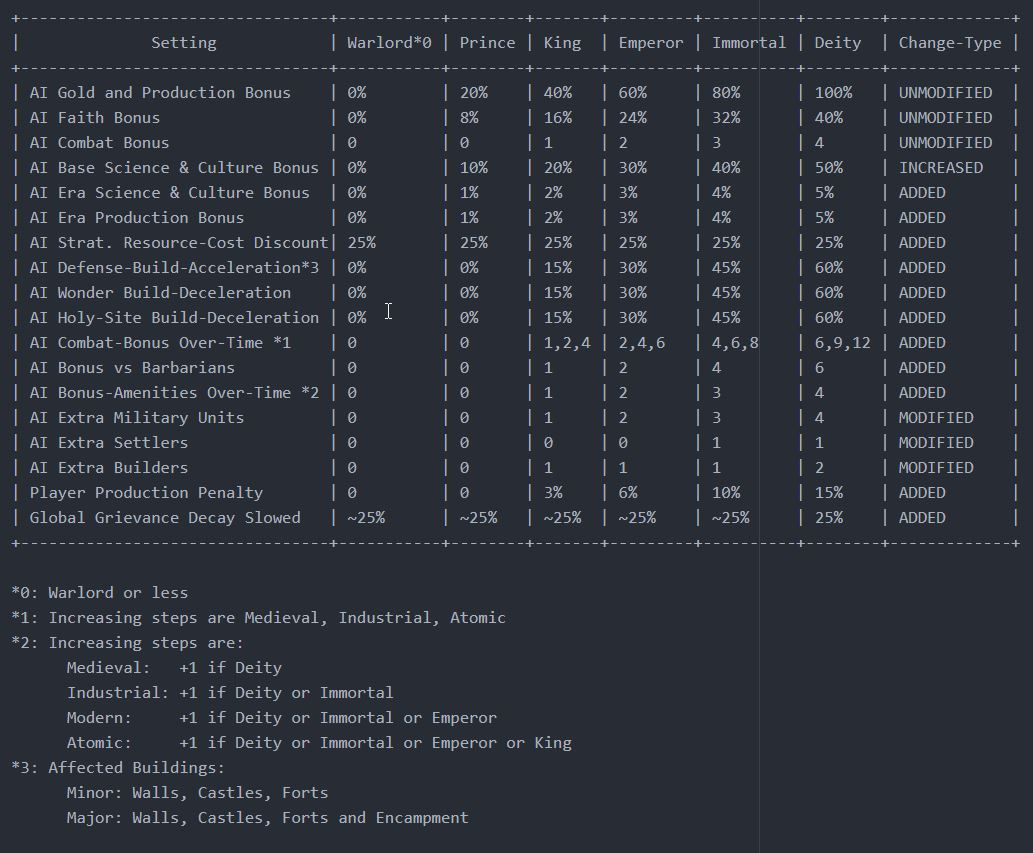
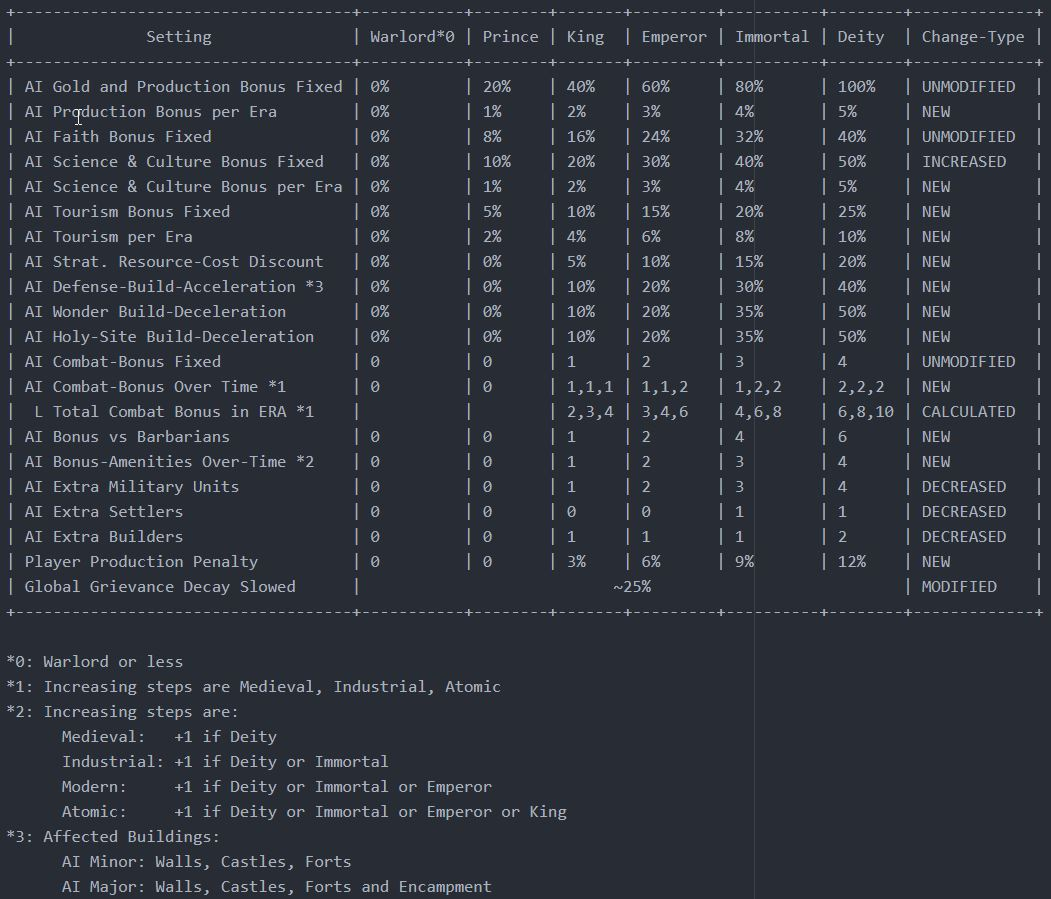
MOD Added tourism-scale, fixed a typo, updated settings-table

diff --git a/README.md b/README.md
@@ -1,27 +1,34 @@
 [h1]Even It Out[/h1]
 
 This mod revamps the difficulty-settings of the game.
+The intention is to have a more scaled experience with no need to adjust your playstyle in a whole because you step up the difficulty.
+
+A good example of this is the fact it is very difficult to compete with the AI on building wonders or holy-sites on deity, this mod allows you to
+be able to do just that, but things getting tough the more the game progresses.
 
 [b]Features[/b]
-Changes difficulties as shown:
-[img]https://raw.githubusercontent.com/fampat/fampat-civ6-mod-evenitout/patch__20_may/Assets/changes-table.jpg[/img]
+Changes, adding and removing difficulty-setting as shown:
+[img]https://i.imgur.com/zBT5ELn.jpg[/img]
 
-Here is a overview with the vanilla-settings: https://civ6.gamepedia.com/Game_difficulty
+Here is a overview of the vanilla-settings: https://civ6.gamepedia.com/Game_difficulty
 
 [b]What's next?[/b]
-- Testing and tweaking
+- Testing and tweaking, alot!
 
 [b]Known issues[/b]
-- None reported or known right now
+- None known right now
 
 [b]Game-versions & Localizations[/b]
 Works with Basegame, R&F and GS.
-Currently localized for EN and DE
+Currently localized for EN and DE (unit modifiers)
 
 [b]Every feedback and bug-report is welcome![/b]
 
 [b]Want to support?[/b]
 Rate it!
+
+[b]Credits[/b]
+Credits go to the creator of the "Smoother Difficulty" mod and schwarzpol.
 
 Maybe you will also enjoy these mods:
 - "Gift It To Me" - https://steamcommunity.com/sharedfiles/filedetails/?id=1683750352
